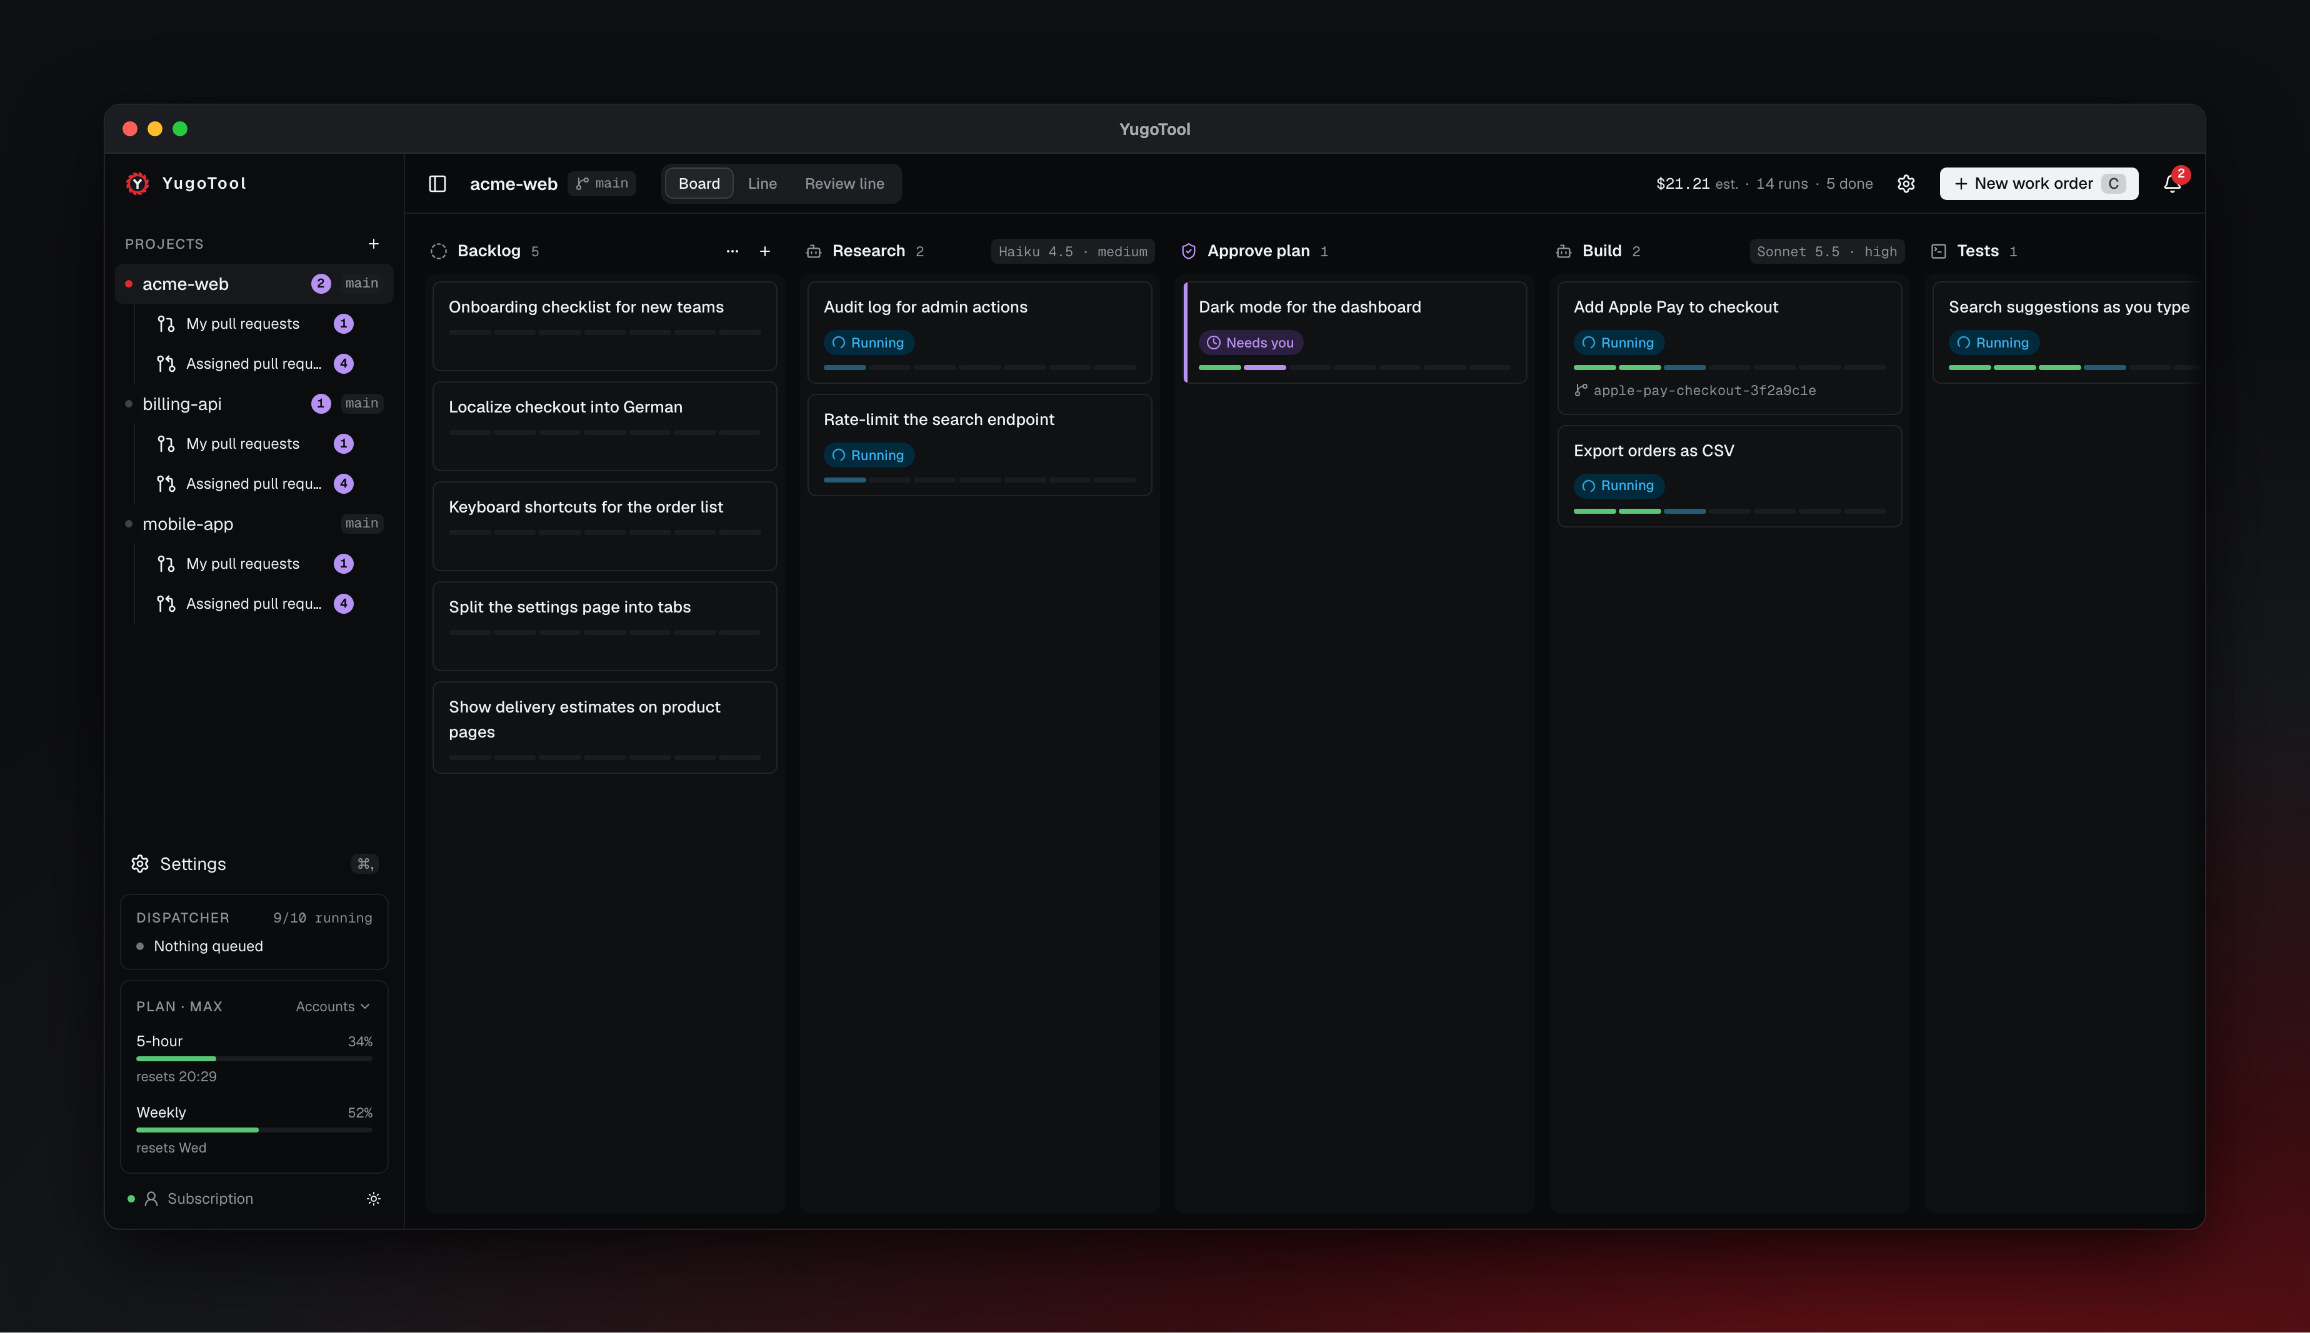
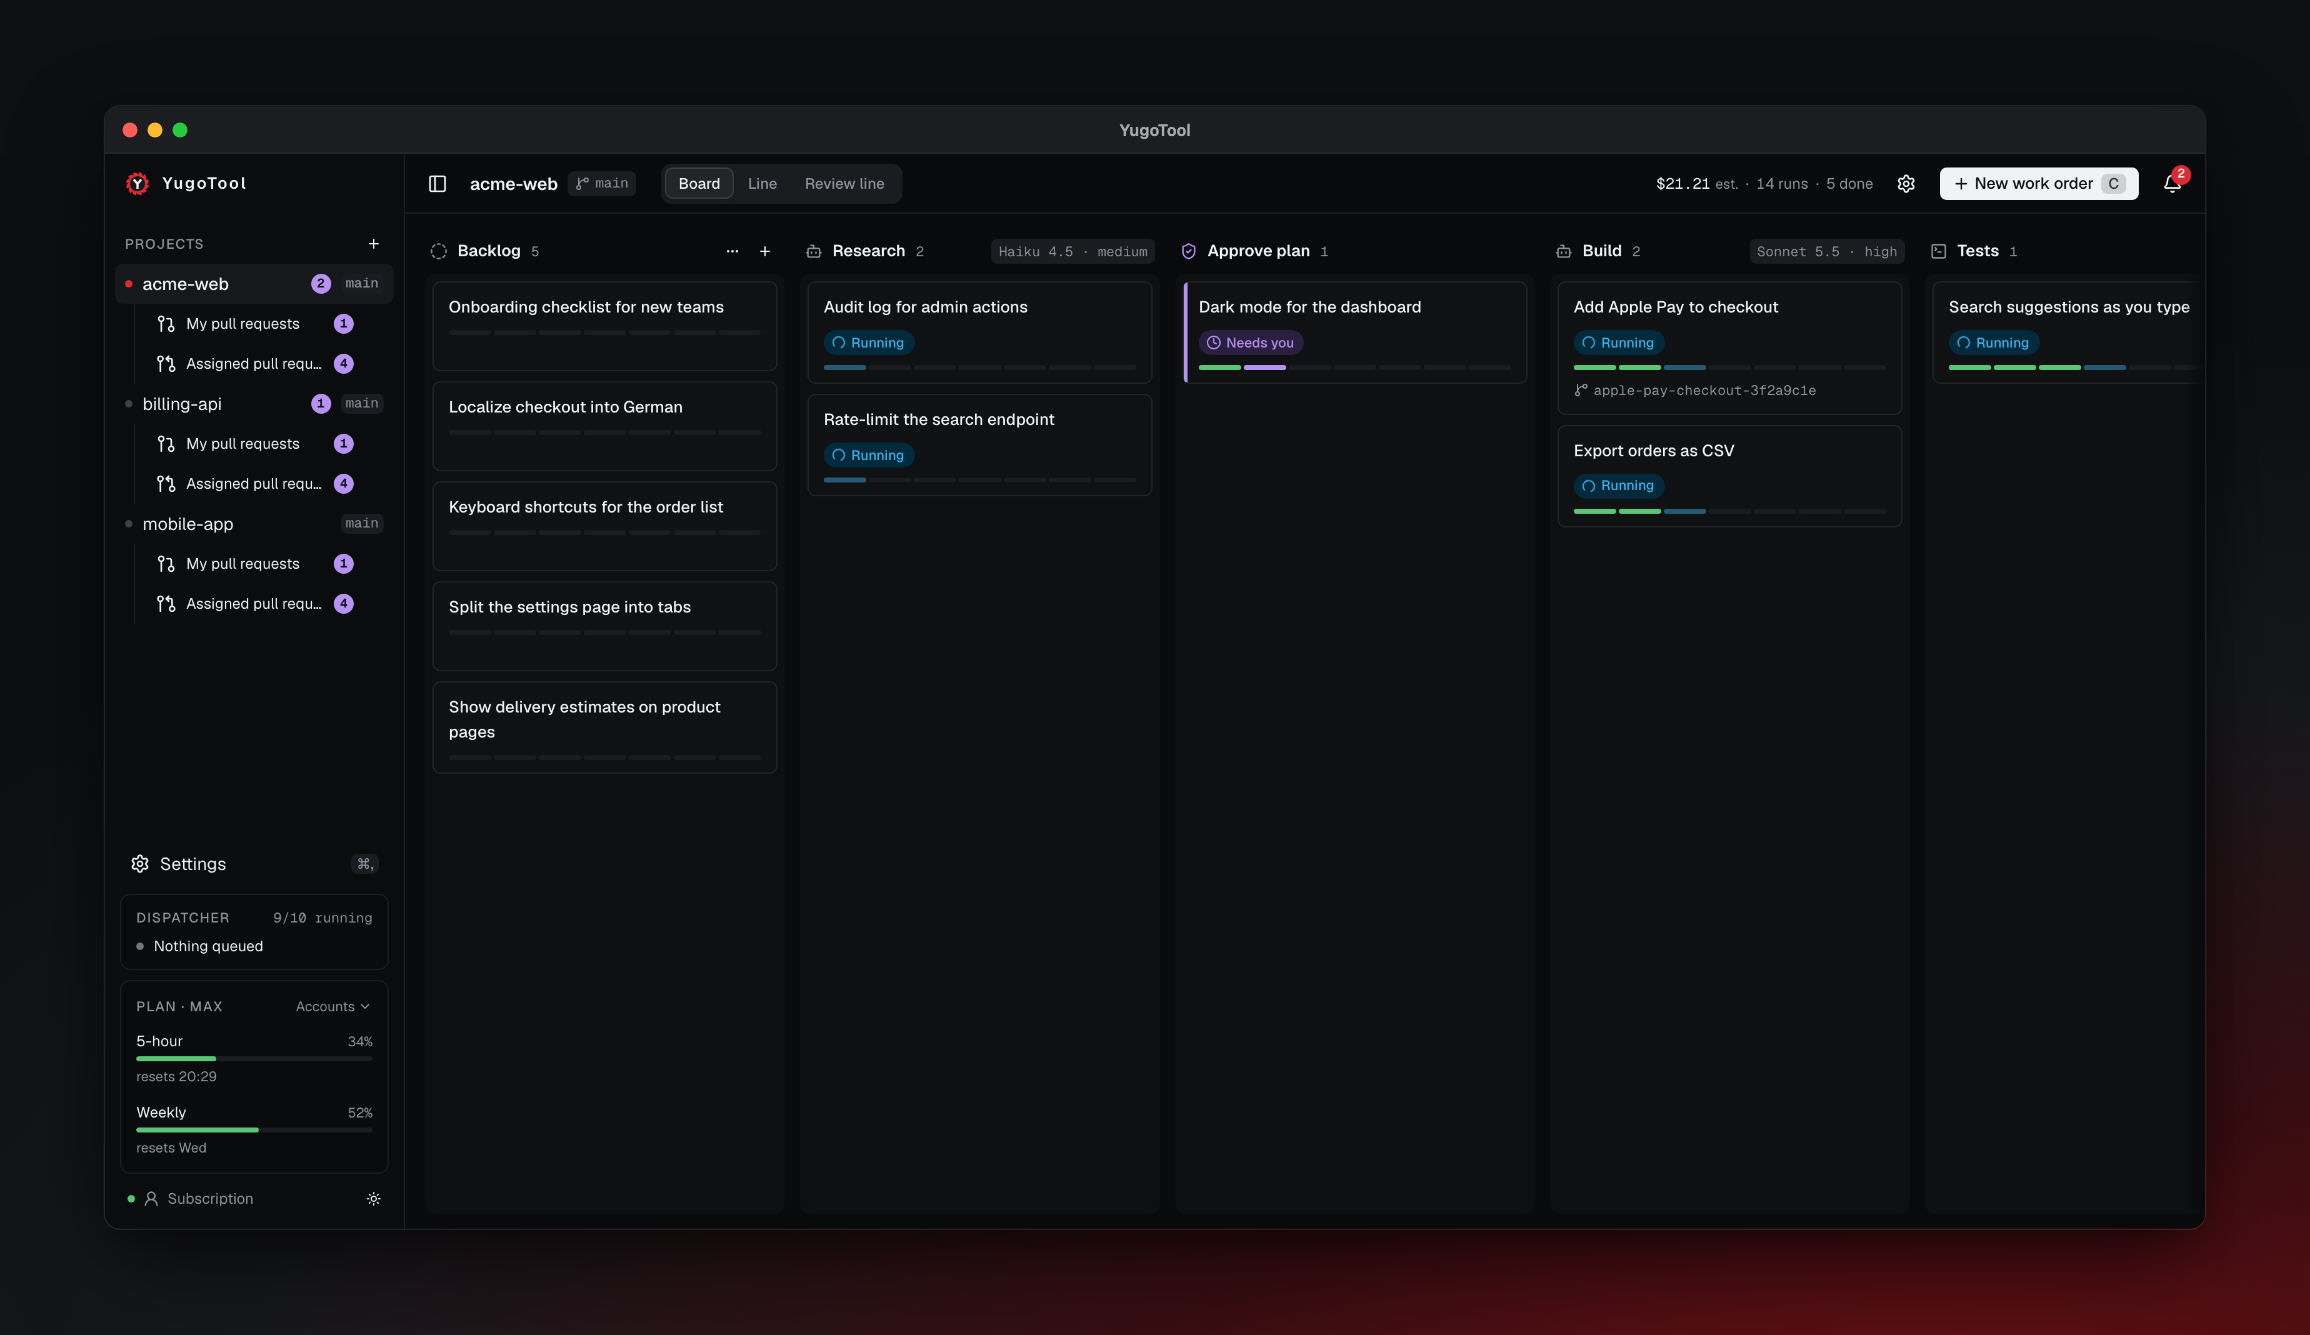
feat: Fable 5.1 and Haiku 5.5 in the model pickers
Mirrors the contract's model list. Screenshots lose a stray bottom line.

diff --git a/src/lib/contracts.ts b/src/lib/contracts.ts
@@ -11,9 +11,12 @@ const isoDate = z.iso.datetime({ offset: true })
 
 // ── Models ──────────────────────────────────────────────────────────────────
 
+/** Newest first; Haiku 4.5 stays for lines saved with it. Any other id still runs, shown raw. */
 export const MODELS = [
+  { id: 'claude-fable-5-1', label: 'Fable 5.1' },
   { id: 'claude-opus-5-5', label: 'Opus 5.5' },
   { id: 'claude-sonnet-5-5', label: 'Sonnet 5.5' },
+  { id: 'claude-haiku-5-5', label: 'Haiku 5.5' },
   { id: 'claude-haiku-4-5-20251001', label: 'Haiku 4.5' },
 ] as const
 
